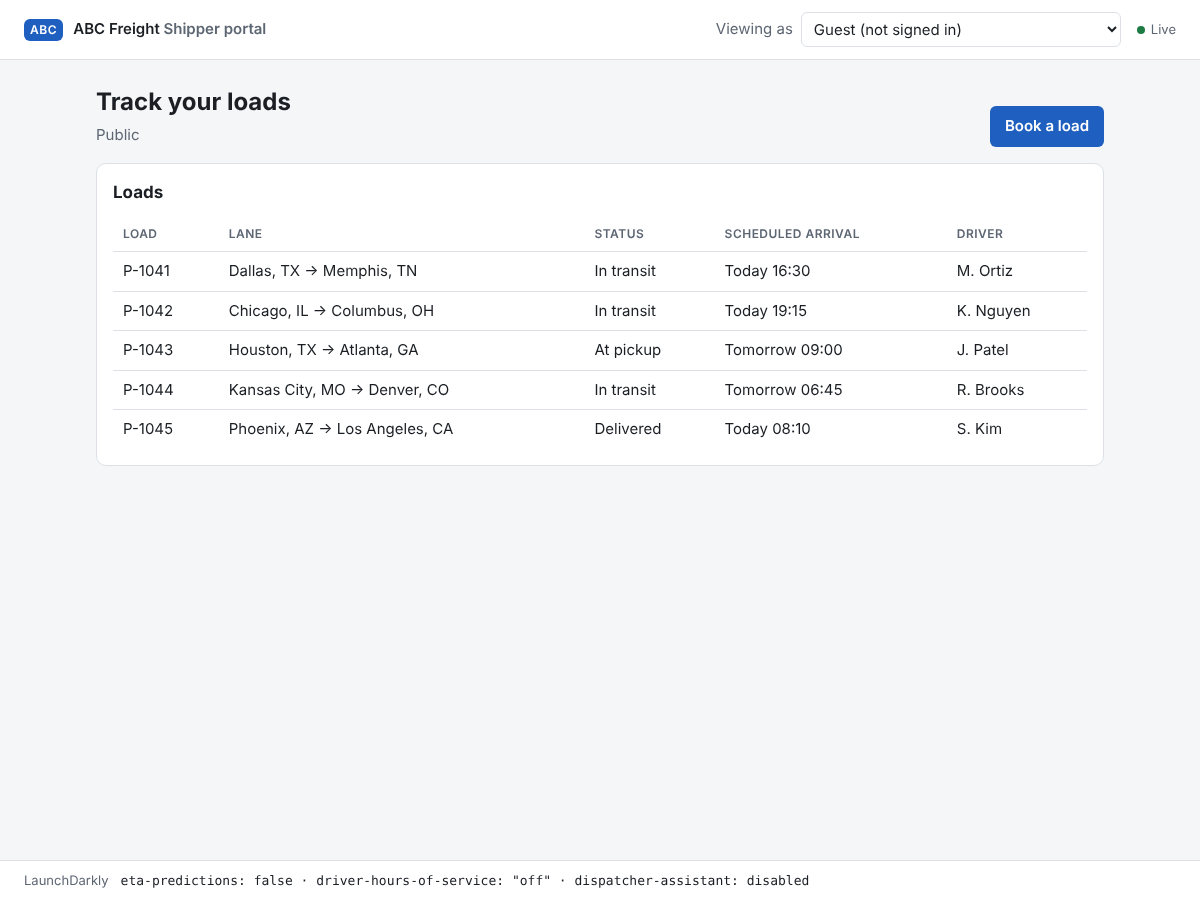
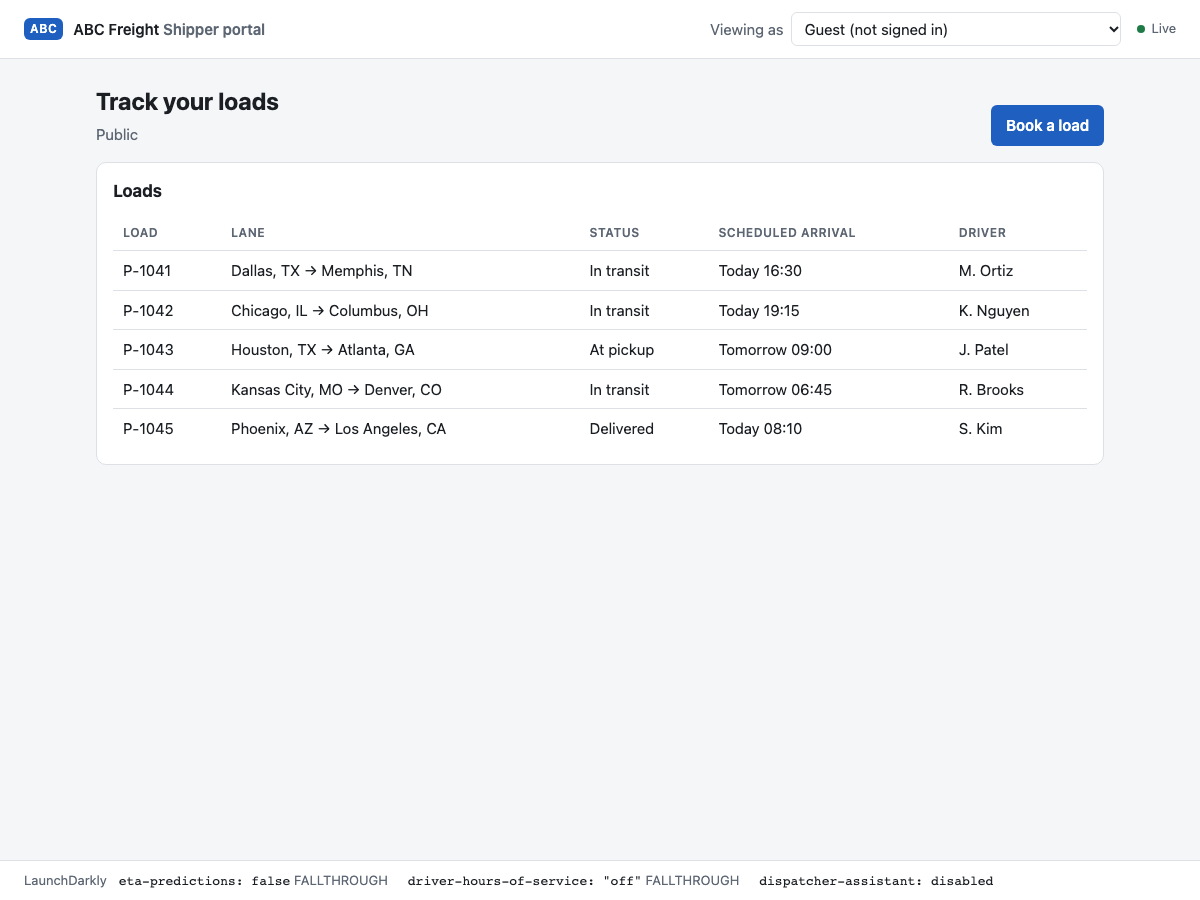
Document the verified setup, the staged release and the experiment result
- Setup guide: the internal-tester target and the default-rule trap
  on both flags, the "Target individuals" path, the metric's current
  name, max_tokens 2000/4000 (thinking counts toward it), prompts as
  code blocks (no <br>), effort, dry run, and Slack checked with a
  real rollback.
- docs/EXPERIMENT.md: sizing, the 2,500-visitor run (8.1% vs 11.9%,
  99.9% probability to be best) and the decision.
- README, testing plan, runbook and architecture follow the staged
  Part 1 flow, Quinn, the reasons footer and scripts/explain.py.
- ADR 0001 no longer says the assignment requires the Python SDK.
- Screenshots retaken with the reasons footer.

diff --git a/docs/LAUNCHDARKLY_SETUP.md b/docs/LAUNCHDARKLY_SETUP.md
@@ -19,10 +19,18 @@ Use the SDK key, not the client-side ID or the mobile key. The app rejects keys 
 | Key | `eta-predictions` (must match `ETA_FLAG` in `app/flags.py`) |
 | Type | Boolean |
 | Variations | `true` (Available), `false` (Unavailable) |
-| Default when on | `true` |
+| Default when on | `false` (the create form preselects `true`; change it) |
 | Default when off | `false` |
 
-Leave the flag **Off** in Test. Turning it on is the release.
+Leave the flag **Off** in Test. Then add one individual target so the release can be tested in production first:
+
+1. Run the app and pick **Quinn** in **Viewing as** once. Quinn works for ABC Freight itself (organization `abc-freight`), and this makes the organization appear in LaunchDarkly's picker.
+2. Open `eta-predictions`, click **+** and choose **Target individuals**. Context kind **organization**, key `abc-freight`, serve `true`.
+3. Check that the **Default rule** still serves `false`, and save.
+
+Releasing then has two steps. Turning the flag **on** shows the feature only to ABC Freight's own staff. Changing the **default rule** to `true` releases it to every customer. Turning the flag **off**, by hand or with the trigger in step 4, rolls back for everyone, targets included.
+
+Before each demo, reset the flag: **Off**, default rule `false`. If the default rule is left at `true`, turning the flag on skips the internal test and releases to everyone at once.
 
 ## 3. Context kind: `organization`
 
@@ -38,7 +46,7 @@ A flag trigger is a secret URL that performs one action on one flag.
 4. Click **Save trigger** and copy the URL right away; LaunchDarkly shows it only once.
 5. Put it in `.env` as `LD_TRIGGER_URL`.
 
-Triggers are only available on some LaunchDarkly plans. If you cannot add one, use the REST fallback instead: create an access token with a **Writer** role under **Account settings > Authorization**, and set `LD_API_TOKEN`, `LD_PROJECT_KEY=abc-freight` and `LD_ENV_KEY=test`. `scripts/rollback.sh` uses whichever is configured.
+Triggers worked on a LaunchDarkly trial account when this guide was tested. They are only available on some plans, so if you cannot add one, use the REST fallback instead: create an access token with a **Writer** role under **Account settings > Authorization**, and set `LD_API_TOKEN`, `LD_PROJECT_KEY=abc-freight` and `LD_ENV_KEY=test`. `scripts/rollback.sh` uses whichever is configured.
 
 Reference: [Flag triggers](https://launchdarkly.com/docs/home/releases/triggers), [Update feature flag (semantic patch)](https://launchdarkly.com/docs/api/feature-flags/patch-feature-flag).
 
@@ -50,16 +58,18 @@ Reference: [Flag triggers](https://launchdarkly.com/docs/home/releases/triggers)
 | Key | `driver-hours-of-service` (must match `HOS_FLAG` in `app/flags.py`) |
 | Type | String |
 | Variations | `off`, `us`, `canada` (values exactly as written) |
-| Default rule | `off` |
+| Default rule | `off` (the create form may preselect another value; change it) |
 | Off variation | `off` |
 
 Turn the flag **On** with the default rule serving `off`. Nobody sees the panel yet. Then build the targeting while a browser is open, so the audience sees each step land:
 
-1. **Individual target.** Add a target for the **organization** context kind: key `lakeshore-logistics` gets `us`. Riley's view changes; nobody else's does.
+1. **Individual target.** Click **+**, choose **Target individuals** (not a custom rule), pick the **organization** context kind, and enter key `lakeshore-logistics` serving `us`. Riley's view changes; nobody else's does. The page footer shows `TARGET_MATCH` for Riley. If it shows `RULE_MATCH`, the target was built as a rule.
 2. **Rule 1, "Enterprise in Canada".** If `organization` `plan` is one of `enterprise` AND `organization` `region` is one of `CA`, serve `canada`.
 3. **Rule 2, "Enterprise in US".** If `organization` `plan` is one of `enterprise` AND `organization` `region` is one of `US`, serve `us`.
 
-Expected results are in the visitor table in the README. To check why a visitor got a value, open **Contexts**, find the organization, and look at its flag evaluations.
+The two rules never match the same organization, so their order does not matter. The footer names the rule by its position (`RULE_MATCH (rule 1)`), so the number follows the order you chose.
+
+Expected results are in the visitor table in the README. To check why a visitor got a value, look at the page footer, or run `python scripts/explain.py`, which prints every visitor's value and reason for each flag without sending any events.
 
 ## 6. Experiment: does the HOS panel lift bookings?
 
@@ -69,7 +79,7 @@ Expected results are in the visitor table in the README. To check why a visitor 
 | --- | --- |
 | Name | Book a load clicked |
 | Event key | `book-load-clicked` (sent by `POST /api/track` and by the simulator) |
-| Measurement | Custom conversion binary: did the context convert at least once |
+| Measurement | Occurrence, shown as a percentage: did the context convert at least once. Older UIs call it "Custom conversion binary" |
 | Success | Higher is better |
 
 **Experiment.**
@@ -78,32 +88,67 @@ Expected results are in the visitor table in the README. To check why a visitor 
 2. **Assignment method**: LaunchDarkly flag or config, flag `driver-hours-of-service`.
 3. **Targeting rule**: Enterprise in US.
 4. **Randomize by**: `organization` (it must match the context kind the rule targets).
-5. **Variation split**: `off` 50%, `us` 50%, `canada` 0%. Control: `off`.
+5. **Variation split**: `off` 50%, `us` 50%, `canada` 0%. Control: `off`. LaunchDarkly accepts a 0% variation.
 6. **Metric**: Book a load clicked, set as primary.
 7. Save, then **Start**.
 
-Then send traffic: `python scripts/simulate_traffic.py --visitors 500`. Each run creates new synthetic US enterprise organizations. The default made-up conversion rates are 8% for `off` and 12% for `us`. Results appear on the experiment's results tab within a few minutes. The traffic is synthetic: it proves the wiring, not the business result.
+Then send traffic:
+
+```bash
+python scripts/simulate_traffic.py --visitors 2500 --seed 2026
+```
+
+Each run creates new synthetic US enterprise organizations. The default made-up conversion rates are 8% for `off` and 12% for `us`. 2,500 visitors is enough to detect that difference; [EXPERIMENT.md](EXPERIMENT.md) shows the sizing and the result. Results appear on the experiment's results tab within a few minutes. The traffic is synthetic: it proves the wiring, not the business result.
+
+While the experiment runs, Sam (Lone Star Freight, enterprise in US) is part of it. LaunchDarkly assigns Lone Star Freight to `off` or `us` at random and keeps it there, so Sam may see no panel. The footer then shows `RULE_MATCH (rule 2, in experiment)`. That is the experiment working, not a targeting bug.
 
 Reference: [Creating experiments](https://launchdarkly.com/docs/home/experimentation/create).
 
 ## 7. AI Config: `dispatcher-assistant`
 
-In the left sidebar the area may be called **AI Configs** or **Agents > Configs**. Create a **Completion** config:
+In the left sidebar the area may be called **AI Configs**, or **Agents > Configs** (labelled "AgentControl" in some accounts). Create a **Completion** config:
 
 | Field | Value |
 | --- | --- |
 | Key | `dispatcher-assistant` (must match `ASSISTANT_CONFIG` in `app/flags.py`) |
+| Provider | Anthropic (the app supports no other provider) |
 
-Add two variations. The `{{ shipper_name }}` and `{{ loads }}` variables are filled in by the app from the visitor's data.
+Add two variations. Set `max_tokens` with **Add parameters > Model parameters**.
 
-| Variation | Model | Model parameter | System message |
-| --- | --- | --- | --- |
-| `concise` | A fast Anthropic model, for example Claude Haiku | `max_tokens` = 300 | You are the dispatcher assistant for {{ shipper_name }}. Answer in at most two sentences, using only these loads:<br>{{ loads }} |
-| `friendly` | A larger Anthropic model, for example Claude Sonnet | `max_tokens` = 500 | You are a friendly dispatcher assistant for {{ shipper_name }}. Explain your answer briefly and suggest a next step. Use only these loads:<br>{{ loads }} |
+| Variation | Model | `max_tokens` |
+| --- | --- | --- |
+| `concise` | A fast Anthropic model, for example `claude-haiku-5-5` | 2000 |
+| `friendly` | A larger Anthropic model, for example `claude-sonnet-5-5` | 4000 |
+
+These limits look high for short answers, but current models think before answering, and thinking counts toward `max_tokens`. With 300 to 500 the answer is often cut off. The app reports a cut-off answer as an error ("The answer was cut off at max_tokens ...") instead of showing half a sentence.
+
+System message for `concise`:
+
+```text
+You are the dispatcher assistant for {{ shipper_name }}. Answer in at most two sentences, using only these loads:
+{{ loads }}
+
+Reply in plain text, without Markdown.
+```
+
+System message for `friendly`:
+
+```text
+You are a friendly dispatcher assistant for {{ shipper_name }}. Explain your answer briefly and suggest a next step. Use only these loads:
+{{ loads }}
+
+Reply in plain text, without Markdown.
+```
+
+Type the line breaks with Enter. Do not paste `<br>`: the model receives it as literal text. The app fills in `{{ shipper_name }}` and `{{ loads }}` from the visitor's data.
+
+Optional: add a custom parameter `{"effort": "low"}` to make the model think less, which lowers latency and cost. Valid values are `low`, `medium`, `high`, `xhigh` and `max`. The app ignores any other value and logs a warning.
 
 **Targeting**: default rule serves `concise`. Add a rule: `organization` `plan` is one of `enterprise` serves `friendly`.
 
-Set `MODEL_API_KEY` in `.env` to an Anthropic API key and restart the app. The assistant panel appears for every visitor whose config is enabled. Usage, latency, tokens and thumbs up/down show on the config's **Monitoring** tab.
+**Model key.** Set `MODEL_API_KEY` in `.env` to an Anthropic API key and restart the app. Without a key, the assistant runs as a **dry run**: it shows the model, parameters and prompt LaunchDarkly served, and calls no model, so it costs nothing. Set `ASSISTANT_DRY_RUN=true` to keep the dry run even with a key, for example while rehearsing. Answers from a real model cost a fraction of a cent each.
+
+Usage, latency, tokens, errors and thumbs up/down show on the config's **Monitoring** tab. Dry runs record nothing there.
 
 Optional: run an experiment on the AI Config with thumbs-up rate as the metric, the same way as step 6.
 
@@ -116,7 +161,7 @@ Reference: [AI Configs quickstart](https://launchdarkly.com/docs/home/ai-configs
    ```text
    /launchdarkly subscribe -p abc-freight -e test
    ```
-3. Run `scripts/rollback.sh`. The channel shows that the trigger turned `eta-predictions` off.
+3. Turn `eta-predictions` on, then run `scripts/rollback.sh`. The channel shows both changes, and names the trigger as the one that turned the flag off. Rolling back a flag that is already off changes nothing, so nothing is posted.
 
 The Slack app is not available on LaunchDarkly's EU or federal instances; use Slack incoming webhooks there.
 

diff --git a/README.md b/README.md
@@ -4,9 +4,9 @@ A small FastAPI app that shows how LaunchDarkly lets a team release faster witho
 
 | Part | What it shows | LaunchDarkly feature |
 | --- | --- | --- |
-| 1. Release and remediate | The Live ETA panel turns on and off in an open browser, with no reload. A one-line `curl` rolls it back. | Boolean flag, streaming updates, flag trigger |
+| 1. Release and remediate | The Live ETA panel is tested in production by ABC Freight's own staff, released to every customer, and rolled back with a one-line `curl`, all in an open browser with no reload. | Boolean flag, individual targeting, streaming updates, flag trigger |
 | 2. Target | The hours-of-service panel reaches one named shipper, plus every enterprise shipper with the rules for their country. | Multi-contexts, individual targeting, rule-based targeting |
-| Extra: Experimentation | Does the hours-of-service panel make US enterprise shippers book more loads? | Custom conversion metric, experiment |
+| Extra: Experimentation | Does the hours-of-service panel make US enterprise shippers book more loads? Yes: [results and decision](docs/EXPERIMENT.md). | Custom conversion metric, experiment |
 | Extra: AI Configs | The assistant's model and prompt change in LaunchDarkly with no deploy. | AI Config, variations, AI metrics, feedback |
 | Extra: Integrations | Every flag change, including the rollback, posts to Slack. | Slack app |
 
@@ -35,7 +35,8 @@ Prefer Docker? `docker build -t abc-freight . && docker run --rm -p 8000:8000 --
 | `LAUNCHDARKLY_SDK_KEY` | Everything. Server-side SDK key for your Test environment (starts with `sdk-`). | Yes |
 | `LD_TRIGGER_URL` | `scripts/rollback.sh` (Part 1 remediation) | For the rollback demo |
 | `LD_API_TOKEN`, `LD_PROJECT_KEY`, `LD_ENV_KEY` | REST fallback for `scripts/rollback.sh` | No |
-| `MODEL_API_KEY` | The dispatcher assistant (an Anthropic API key) | No |
+| `MODEL_API_KEY` | Real answers from the dispatcher assistant (an Anthropic API key). Without it the assistant runs as a free dry run. | No |
+| `ASSISTANT_DRY_RUN` | Set to `true` to keep the assistant in dry-run mode even with a key | No |
 
 The app refuses to start without `LAUNCHDARKLY_SDK_KEY`, and says so. No key or token is ever sent to the browser.
 
@@ -43,25 +44,30 @@ The app refuses to start without `LAUNCHDARKLY_SDK_KEY`, and says so. No key or 
 
 Open http://127.0.0.1:8000 and leave the tab open for the whole demo. Nothing below reloads the page.
 
-**Part 1: release and remediate**
+The footer bar shows every flag's current value and the reason LaunchDarkly gave for it, such as `TARGET_MATCH` or `RULE_MATCH (rule 2)`. `python scripts/explain.py` prints the same for every visitor at once.
 
-1. With `eta-predictions` off, the page shows only the loads table.
-2. In LaunchDarkly, turn `eta-predictions` on. The **Live ETA predictions** panel appears within a second.
-3. Click **Refresh predictions**. It fails with a timeout. This is the deliberate bug standing in for a bad release.
-4. Roll back from a terminal:
+**Part 1: release and remediate.** Start with `eta-predictions` off and its default rule serving `false` (setup step 2).
+
+1. Viewing as Guest, the page shows only the loads table.
+2. **Test in production.** Turn `eta-predictions` on. Guest still sees nothing. Switch **Viewing as** to Quinn, an ABC Freight QA engineer: the **Live ETA predictions** panel is there, because ABC Freight's own organization is individually targeted.
+3. As Quinn, click **Refresh predictions**. It fails with a timeout. This is the deliberate bug, here found by an internal tester before any customer.
+4. **Release.** For the demo, release anyway: change the default rule to `true`. Every visitor's page shows the panel within a second, without a reload.
+5. **Remediate** from a terminal:
    ```bash
    scripts/rollback.sh
    ```
-   The panel disappears from the open page, and the flag shows Off in LaunchDarkly. Run the command again: it is safe to repeat.
+   The flag trigger turns the flag off. The panel disappears from every open page in under a second, and Slack posts the change. Run the command again: it is safe to repeat.
+6. Reset for the next run: set the default rule back to `false`.
 
 **Part 2: targeting.** Switch visitors with **Viewing as** at the top right.
 
 | Visitor | Organization | Plan, region | Hours-of-service panel | Why |
 | --- | --- | --- | --- | --- |
 | Dana | Prairie Haul | enterprise, CA | Canadian rules | Rule: enterprise in CA |
-| Sam | Lone Star Freight | enterprise, US | US rules | Rule: enterprise in US |
+| Sam | Lone Star Freight | enterprise, US | US rules, or hidden while the experiment runs | Rule: enterprise in US. The experiment assigns the organization to `us` or `off` at random |
 | Riley | Lakeshore Logistics | pro, US | US rules | Individual target on the organization |
 | Alex | Maple Route | free, CA | Hidden | Matches nothing |
+| Quinn | ABC Freight (internal) | internal, US | Hidden | Matches nothing. Quinn is the internal tester for Part 1 |
 | Guest | Public | free, US | Hidden | Anonymous, matches nothing |
 
 Add the individual target, then the rules, while watching an open page: only the affected visitors change. Turn the flag off and every panel disappears, because the kill switch beats targeting.
@@ -69,10 +75,12 @@ Add the individual target, then the rules, while watching an open page: only the
 **Experimentation.** Start the experiment from the setup guide, then send synthetic traffic:
 
 ```bash
-python scripts/simulate_traffic.py --visitors 500
+python scripts/simulate_traffic.py --visitors 2500 --seed 2026
 ```
 
-**AI Configs.** With `MODEL_API_KEY` set and the AI Config on, the assistant appears. Ask "Which loads are at risk?", switch the variation in LaunchDarkly, and ask again.
+[docs/EXPERIMENT.md](docs/EXPERIMENT.md) has the sizing, the result (`us` lifted bookings from 8.1% to 11.9%, 99.9% probability to be best) and the decision.
+
+**AI Configs.** With the AI Config on, the assistant appears. Ask "Which loads are at risk?", switch the variation in LaunchDarkly, and ask again: the model, prompt and tone change with no restart. Sam and Dana (enterprise) get the `friendly` variation; everyone else gets `concise`. Without `MODEL_API_KEY` the answer is a dry run that shows exactly what LaunchDarkly served.
 
 More screenshots are in [docs/images](docs/images). The browser test takes them, so the assistant's answer there comes from a test stub, not a real model.
 
@@ -98,6 +106,7 @@ LaunchDarkly ──stream──▶ SDK (FastAPI) ──listener──▶ /events
 | `static/` | Plain HTML, CSS and JavaScript (no framework) |
 | `scripts/rollback.sh` | Remediation: turn a flag off |
 | `scripts/simulate_traffic.py` | Synthetic traffic for the experiment |
+| `scripts/explain.py` | Every visitor's flag values and the reasons, from your LaunchDarkly environment |
 | `tests/` | Unit, integration and browser tests; no keys or network needed |
 | `docs/` | Setup, architecture, runbook, testing, decision records |
 
@@ -105,7 +114,7 @@ LaunchDarkly ──stream──▶ SDK (FastAPI) ──listener──▶ /events
 
 ```bash
 pip install -r requirements-dev.txt
-pytest                                    # 41 tests, about 3 s, no LaunchDarkly account needed
+pytest                                    # about 55 tests, a few seconds, no LaunchDarkly account needed
 python -m playwright install chromium && pytest tests/e2e   # real browser, flags flipped live
 ```
 
@@ -116,6 +125,7 @@ The tests use the SDK's `TestData` source, so they need no network and no keys. 
 - [LaunchDarkly setup](docs/LAUNCHDARKLY_SETUP.md): project, flags, targeting, trigger, metric, experiment, AI Config, Slack
 - [Architecture](docs/ARCHITECTURE.md): design, failure behavior, limits, and what changes with more instances
 - [Runbook](docs/RUNBOOK.md): release, roll back, verify, rotate secrets
+- [Experiment](docs/EXPERIMENT.md): sizing, result and decision
 - [Testing](docs/TESTING.md): automated tests and the manual test plan
 - [Decision records](docs/decisions/): why SSE, per-visitor listeners, a trigger, multi-contexts, a string flag
 

diff --git a/docs/TESTING.md b/docs/TESTING.md
@@ -15,35 +15,37 @@ One detail matters here. `TestData` normally writes straight into the SDK's flag
 
 | File | Covers |
 | --- | --- |
-| `tests/test_flags.py` | Fallbacks, both flags, every visitor's targeting result, the kill switch overriding targeting, private and anonymous contexts |
+| `tests/test_flags.py` | Fallbacks, both flags, the staged release to the internal tester, every visitor's targeting result and evaluation reason, the kill switch overriding targeting, private and anonymous contexts |
 | `tests/test_live_updates.py` | Snapshot on connect, live push on change, only affected visitors updated, listeners removed on disconnect |
-| `tests/test_api.py` | Endpoints, the simulated bad release, event tracking, the assistant (model and prompt from the AI Config, metrics, feedback, failures), no secrets in any response |
-| `tests/test_settings.py` | Clear failure on a missing or wrong SDK key |
-| `tests/test_scripts.py` | Rollback through the trigger and the REST fallback (against a local fake server), repeatability, the traffic simulator |
-| `tests/e2e/test_browser.py` | Chromium on a real server: the full Part 1 and Part 2 demo and the assistant, checking that the page never reloads |
+| `tests/test_api.py` | Endpoints, the simulated bad release, event tracking, the assistant (model, prompt and effort from the AI Config, dry run, cut-off and refused answers, metrics, feedback, failures), no secrets in any response |
+| `tests/test_settings.py` | Clear failure on a missing or wrong SDK key, the dry-run switch |
+| `tests/test_scripts.py` | Rollback through the trigger and the REST fallback (against a local fake server), repeatability, the traffic simulator, `explain.py` |
+| `tests/e2e/test_browser.py` | Chromium on a real server: the full Part 1 demo (internal tester first, then everyone), Part 2 and the assistant, checking that the page never reloads |
 
 CI runs the tests on Python 3.11, 3.12 and 3.13, the browser test, a gitleaks secret scan and a Docker build on every push.
 
 ## Manual test plan
 
-Run against a real LaunchDarkly Test environment set up as in [LAUNCHDARKLY_SETUP.md](LAUNCHDARKLY_SETUP.md). Keep one browser tab open throughout and never refresh it.
+Run against a real LaunchDarkly Test environment set up as in [LAUNCHDARKLY_SETUP.md](LAUNCHDARKLY_SETUP.md). Keep one browser tab open throughout and never refresh it. The page footer shows each flag's value and reason; `python scripts/explain.py` shows them for every visitor.
 
 | # | Area | Steps | Expected |
 | --- | --- | --- | --- |
 | 1 | Startup | Remove `LAUNCHDARKLY_SDK_KEY` from `.env`, run `python -m app` | Exits with "LAUNCHDARKLY_SDK_KEY is not set" |
 | 2 | Startup | Restore the key, run `python -m app`, open `/healthz` | `launchdarkly_initialized: true` |
-| 3 | Evaluation | Open the page with `eta-predictions` off | Loads table only; footer shows `eta-predictions: false`; status shows Live |
-| 4 | Activation | Turn `eta-predictions` on in LaunchDarkly | ETA panel appears within about a second, no reload |
-| 5 | Bad release | Click **Refresh predictions** | Red "Prediction refresh failed … timed out" message |
-| 6 | Rollback | Run `scripts/rollback.sh` | Script prints success; panel disappears; flag shows Off in LaunchDarkly |
-| 7 | Remediation is repeatable | Run `scripts/rollback.sh` again | Succeeds; nothing changes |
-| 8 | Reconnect | Stop the app, turn `eta-predictions` on, start the app again | Status shows Reconnecting, then Live; the panel appears on reconnect without a refresh |
-| 9 | Individual target | Viewing as Riley, add the `lakeshore-logistics` target | HOS panel with US rules appears for Riley only |
-| 10 | Rules | Add both enterprise rules; switch between Dana, Sam, Alex, Guest | Dana: Canada rules; Sam: US rules; Alex and Guest: no panel |
-| 11 | Kill switch beats targeting | Turn `driver-hours-of-service` off | Panel disappears for everyone |
-| 12 | Private attribute | Open the `user-dana` context in LaunchDarkly | `email` is not shown |
-| 13 | Experiment | Click **Book a load**; run `scripts/simulate_traffic.py --visitors 500` | Metric receives events; experiment results show both variations |
-| 14 | AI Config | Set `MODEL_API_KEY`, ask a question as Sam, switch Sam's variation, ask again | The assistant panel shows the new model and the tone changes, with no restart |
-| 15 | AI metrics | Click thumbs up | Monitoring tab shows tokens, latency, and positive feedback |
-| 16 | Cleanup | Close the tab, open `/healthz` | `open_streams` drops by one |
-| 17 | Slack | Run the rollback with Slack subscribed | The channel shows the change |
+| 3 | Evaluation | Open the page with `eta-predictions` off, default rule `false` | Loads table only; footer shows `eta-predictions: false OFF`; status shows Live |
+| 4 | Test in production | Turn `eta-predictions` on | Guest still sees nothing (`FALLTHROUGH`); switch to Quinn: ETA panel shows (`TARGET_MATCH`) |
+| 5 | Bad release | As Quinn, click **Refresh predictions** | Red "Prediction refresh failed … timed out" message |
+| 6 | Release | Change the default rule to `true` | ETA panel appears for every visitor within about a second, no reload |
+| 7 | Rollback | Run `scripts/rollback.sh` | Script prints success; panel disappears for every visitor in under a second; flag shows Off in LaunchDarkly. Then set the default rule back to `false` |
+| 8 | Remediation is repeatable | Run `scripts/rollback.sh` again | Succeeds; nothing changes |
+| 9 | Reconnect | Viewing as Quinn, stop the app, turn `eta-predictions` on, start the app again | Status shows Reconnecting, then Live; the panel appears on reconnect without a refresh |
+| 10 | Individual target | Viewing as Riley, add the `lakeshore-logistics` target | HOS panel with US rules appears for Riley only; footer shows `TARGET_MATCH` |
+| 11 | Rules | Add both enterprise rules; switch between Dana, Sam, Alex, Quinn, Guest | Dana: Canada rules; Sam: US rules (or no panel while the experiment runs and Lone Star Freight is in the control group); Alex, Quinn and Guest: no panel |
+| 12 | Kill switch beats targeting | Turn `driver-hours-of-service` off | Panel disappears for everyone |
+| 13 | Private attribute | Open the `user-dana` context in LaunchDarkly | `email` is not shown |
+| 14 | Experiment | Click **Book a load**; run `scripts/simulate_traffic.py --visitors 2500 --seed 2026` | Metric receives events; experiment results show `us` ahead of `off` (see [EXPERIMENT.md](EXPERIMENT.md)) |
+| 15 | AI Config, dry run | Without `MODEL_API_KEY`, ask a question as Sam | Answer starts "Dry run: no model was called" and shows the model, `max_tokens` and prompt LaunchDarkly served |
+| 16 | AI Config | Set `MODEL_API_KEY`, ask a question as Sam, switch Sam's variation, ask again | The assistant panel shows the new model and the tone changes, with no restart |
+| 17 | AI metrics | Click thumbs up | Monitoring tab shows tokens, latency, and positive feedback |
+| 18 | Cleanup | Close the tab, open `/healthz` | `open_streams` drops by one |
+| 19 | Slack | Run the rollback with Slack subscribed | The channel shows the change |

diff --git a/docs/EXPERIMENT.md b/docs/EXPERIMENT.md
@@ -1,0 +1,45 @@
+# Experiment: does the hours-of-service panel lift bookings?
+
+The extra-credit experiment, run on a LaunchDarkly trial account. The traffic is synthetic, so the result proves the setup works end to end. It says nothing about real shippers.
+
+## Design
+
+| | |
+| --- | --- |
+| Hypothesis | Showing US enterprise dispatchers their drivers' hours of service increases load bookings. |
+| Flag | `driver-hours-of-service`, rule "Enterprise in US" |
+| Variations | Control `off` (no panel), treatment `us` (US rules panel). `canada` gets 0% of the split. |
+| Randomization unit | `organization`, so every dispatcher at one shipper sees the same variation |
+| Primary metric | `book-load-clicked`: the share of organizations that click **Book a load** at least once |
+| Audience | US enterprise organizations only. Everyone else is outside the experiment and keeps their normal targeting. |
+
+## Sizing
+
+The simulator's made-up conversion rates are 8% for `off` and 12% for `us`. To detect a lift of that size with 95% confidence and 80% power, a two-sided test needs about 880 organizations per variation. The run below sent 2,500, about 1,250 per variation, which leaves room for random variation in the split.
+
+With real traffic, size the test the same way from your actual baseline rate and the smallest lift worth acting on, then let it run at least one full week so weekday and weekend behavior are both included.
+
+## Run
+
+```bash
+python scripts/simulate_traffic.py --visitors 2500 --seed 2026
+```
+
+| Variation | Exposures | Conversions | Rate |
+| --- | --- | --- | --- |
+| `off` (control) | 1,241 | 101 | 8.1% |
+| `us` | 1,259 | 150 | 11.9% |
+
+- Lift: +3.8 percentage points (+46% relative). 95% confidence interval +1.4 to +6.1 points.
+- Two-proportion z-test: z = 3.14, p = 0.002.
+- Probability that `us` beats `off` (Beta-Binomial, flat prior): 99.9%.
+
+LaunchDarkly's results tab shows its own Bayesian numbers. They also include the 500-visitor smoke run sent earlier, so they differ slightly from the table above, but they point the same way.
+
+## Decision
+
+Ship `us` to US enterprise shippers. The panel raised bookings by an amount well clear of zero, and nothing in the result suggests harm.
+
+In LaunchDarkly: stop the experiment, keep its results, and set the "Enterprise in US" rule to serve `us` to everyone it matches. After that, Sam (Lone Star Freight) sees the US panel every time instead of depending on the random assignment.
+
+Before trusting a real experiment, also check a guardrail metric (for example error rate or page latency) and look at the result by segment, such as fleet size, to make sure the lift is not driven by one group.

diff --git a/docs/ARCHITECTURE.md b/docs/ARCHITECTURE.md
@@ -32,7 +32,7 @@ The feature code lives in `app/features.py` and only runs when its flag is on. W
 
 ## Contexts
 
-Every evaluation uses a `user` + `organization` multi-context. Targeting rules match organization attributes (`plan`, `region`, `fleet_size`, `beta_tester`), which is how a B2B portal is rolled out. The user's `email` is a private attribute: it can be used for evaluation but is not sent to LaunchDarkly. The guest visitor is an anonymous context.
+Every evaluation uses a `user` + `organization` multi-context. Targeting rules match organization attributes (`plan`, `region`, `fleet_size`, `beta_tester`), which is how a B2B portal is rolled out. The user's `email` is a private attribute: it can be used for evaluation but is not sent to LaunchDarkly. The guest visitor is an anonymous context. Quinn belongs to `abc-freight`, ABC Freight's own organization, which is the individual target used to test a release in production before customers see it.
 
 ## Failure behavior
 
@@ -44,6 +44,8 @@ Every evaluation uses a `user` + `organization` multi-context. Targeting rules m
 | SDK key revoked or invalid | LaunchDarkly rejects it and the SDK stops retrying. The app keeps serving fallbacks until the key is fixed and the app restarted. |
 | Browser loses its connection | `EventSource` reconnects after 2 s and receives a fresh snapshot. |
 | Model provider fails | `/api/assistant` returns 502, the AI Config records an error, and the rest of the page is unaffected. |
+| Model answer cut off, refused or empty | `/api/assistant` returns 502 with the reason (for example "cut off at max_tokens 300"), and the AI Config records an error. |
+| No `MODEL_API_KEY` | The assistant runs as a dry run: it shows what LaunchDarkly served and calls no model. |
 
 ## Limits and what changes at scale
 

diff --git a/docs/RUNBOOK.md b/docs/RUNBOOK.md
@@ -4,9 +4,9 @@ For whoever is on call during a release of ABC Freight.
 
 ## Release a feature
 
-1. Deploy with the feature's flag **off**. Both code paths ship together; the deploy changes nothing users see.
-2. Optional: target your own organization first (individual target) and check the feature in production.
-3. Turn the flag on in LaunchDarkly, or widen its rules. Open browsers update within about a second.
+1. Deploy with the feature's flag **off** and its default rule serving the old behavior. Both code paths ship together; the deploy changes nothing users see.
+2. Target your own organization (individual target `abc-freight`), turn the flag on, and check the feature in production as an internal user, such as the Quinn visitor.
+3. Release: change the default rule, or widen the rules. Open browsers update within about a second.
 4. Watch errors and the Slack channel for the next 15 minutes.
 
 ## Roll back
@@ -34,7 +34,7 @@ A monitoring tool can call the same trigger URL when an alert fires, which turns
 
 1. The flag shows **Off** in LaunchDarkly, and its history names the trigger or token that turned it off.
 2. Slack shows the change, if the integration is set up.
-3. An open page has lost the feature without a refresh. The footer bar shows the flag's current value.
+3. An open page has lost the feature without a refresh. The footer bar shows the flag's current value and the reason `OFF`. `python scripts/explain.py` shows every visitor at once.
 4. `curl -s localhost:8000/api/state?visitor=sam` shows `"eta": null`.
 
 ## Rotate secrets

diff --git a/docs/decisions/0001-sse-for-browser-updates.md b/docs/decisions/0001-sse-for-browser-updates.md
@@ -14,4 +14,4 @@ Use Server-Sent Events: `GET /events` with `StreamingResponse`, and `EventSource
 
 - One-way is all we need, and `EventSource` reconnects by itself. The server sends a full snapshot on every connect, so a reconnect never misses a change.
 - It is plain HTTP, so it passes through proxies that allow long responses, with no extra dependency.
-- Rejected: WebSockets (two-way, more moving parts, nothing to send upstream); polling (slow or wasteful, and the assignment rules it out); LaunchDarkly's client-side JavaScript SDK (it would move flag decisions and data into the browser, and the assignment asks for the Python SDK to drive the page).
+- Rejected: WebSockets (two-way, more moving parts, nothing to send upstream); polling (either slow or wasteful, when the change should feel instant); LaunchDarkly's client-side JavaScript SDK. The assignment allows any of LaunchDarkly's five most common SDKs, JavaScript included. We chose the server-side Python SDK so flag decisions, targeting data and feature data stay on the server, and the browser only renders what it is sent.
